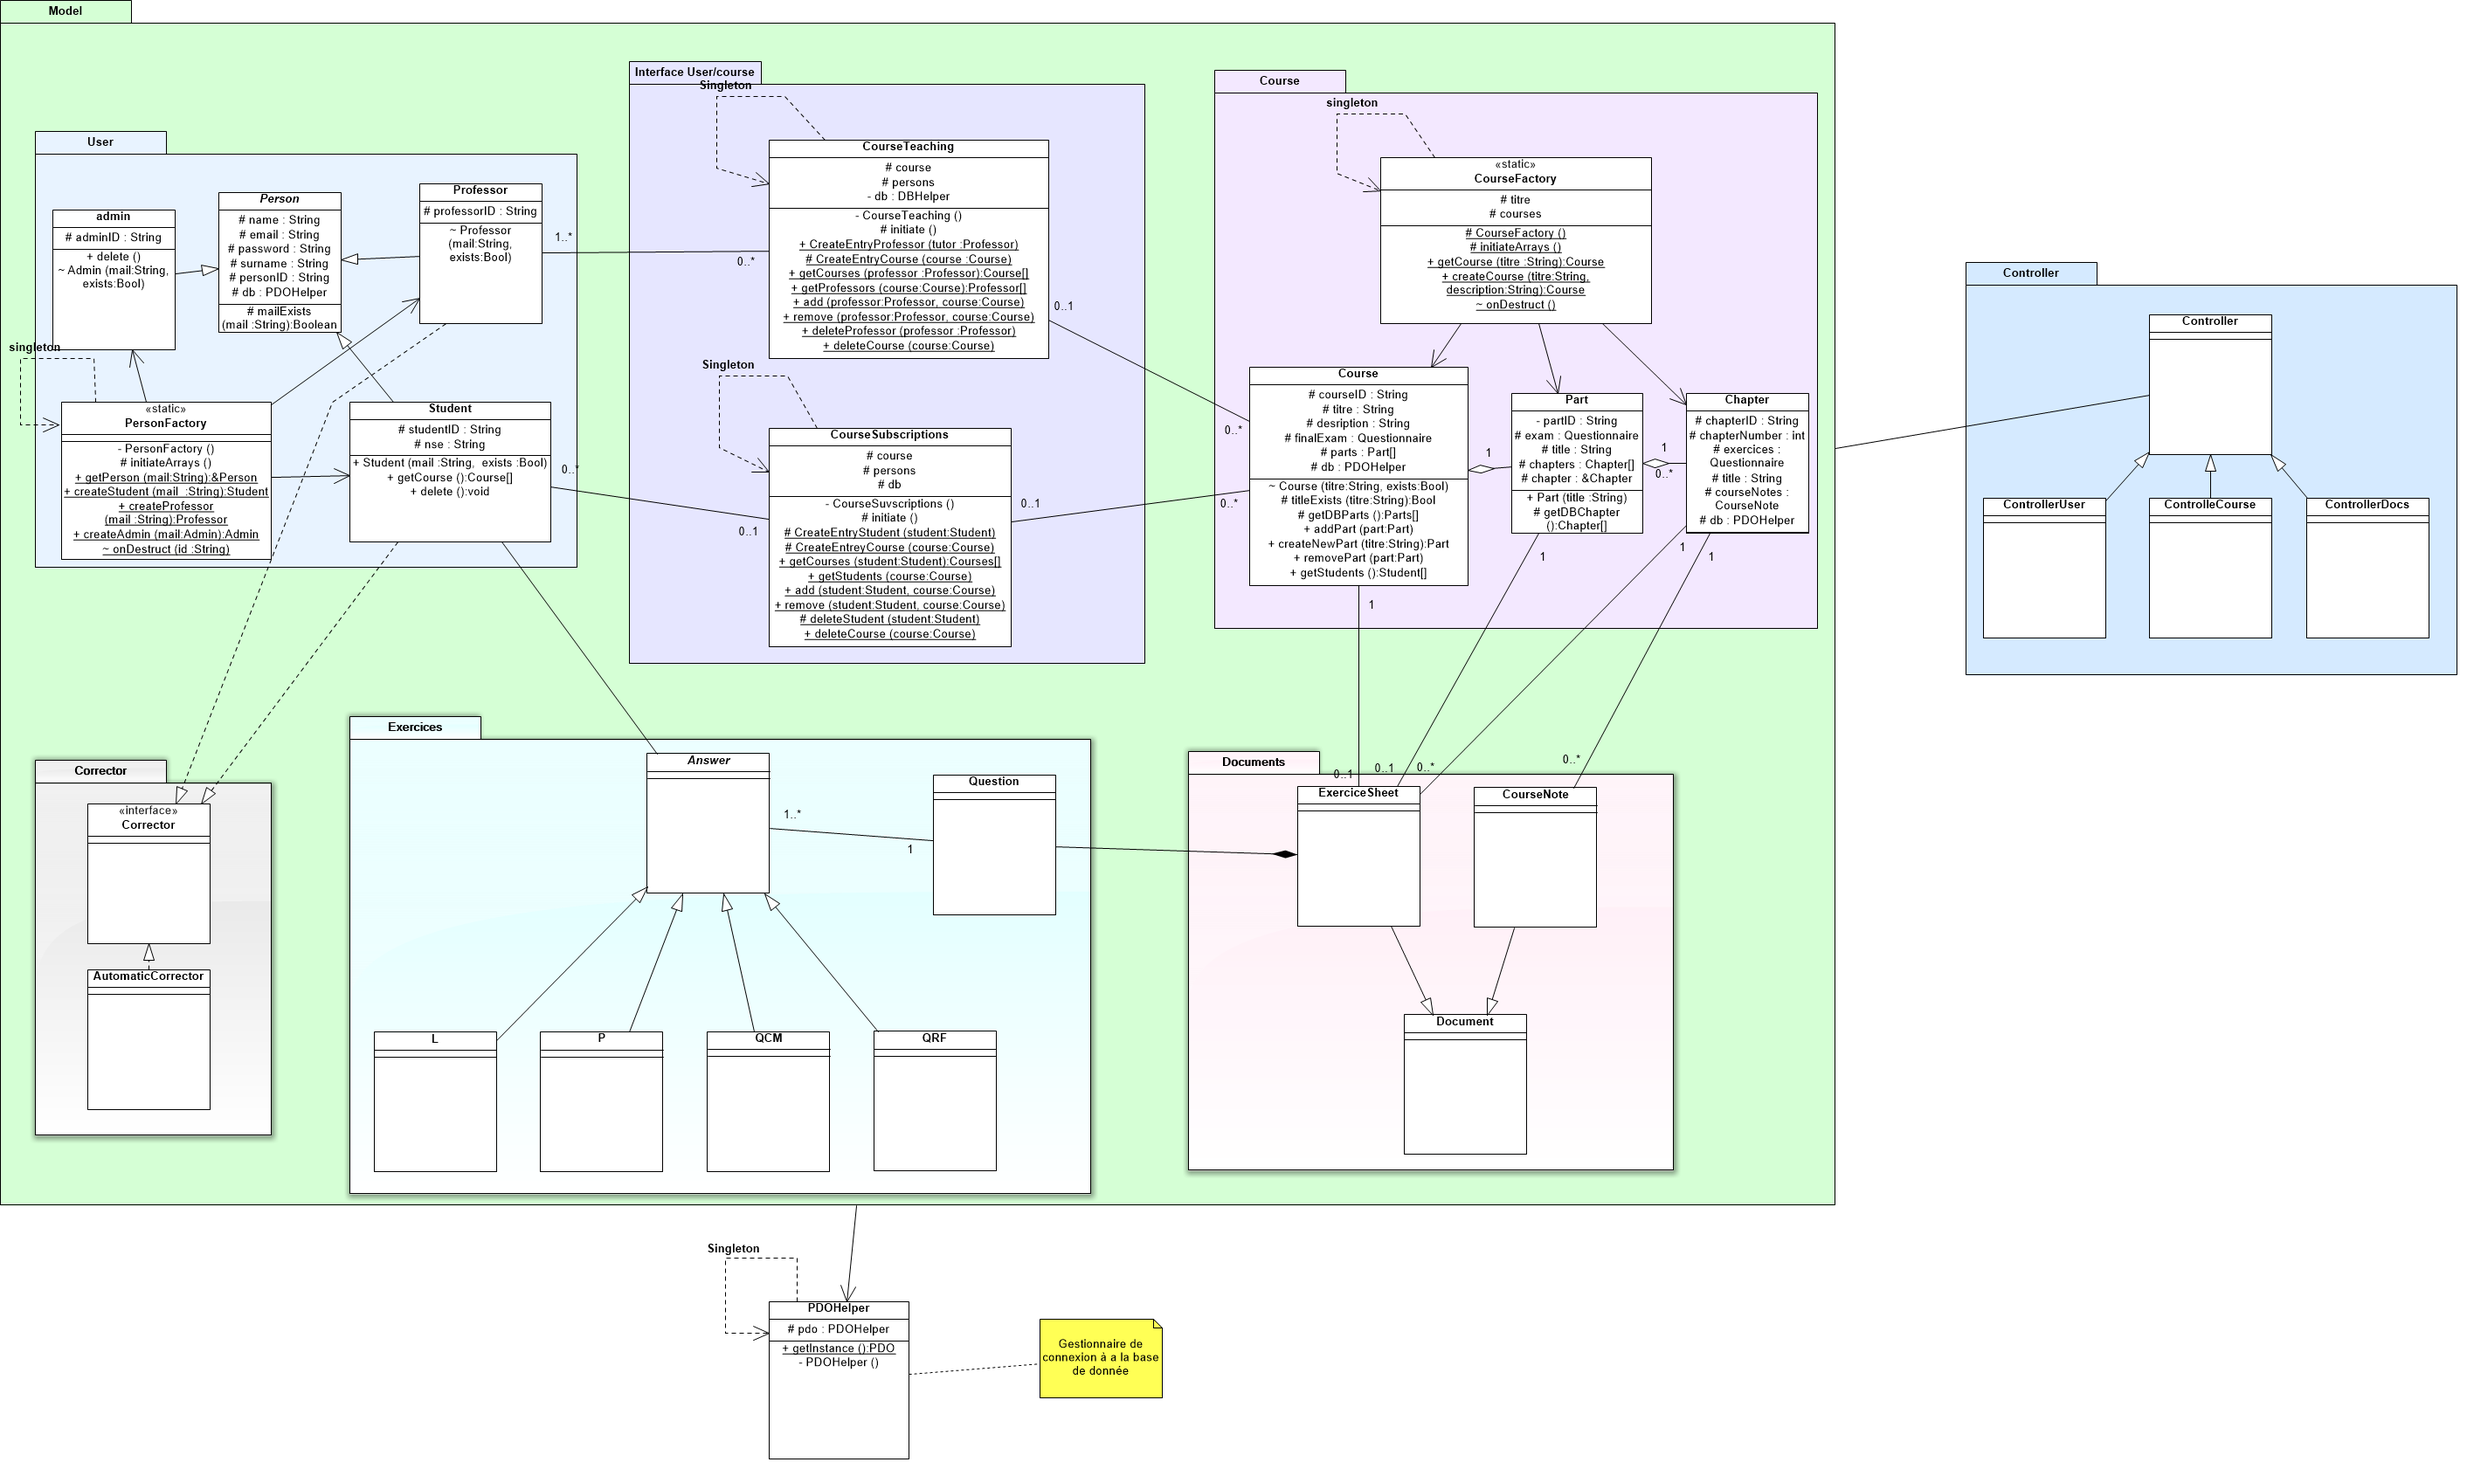
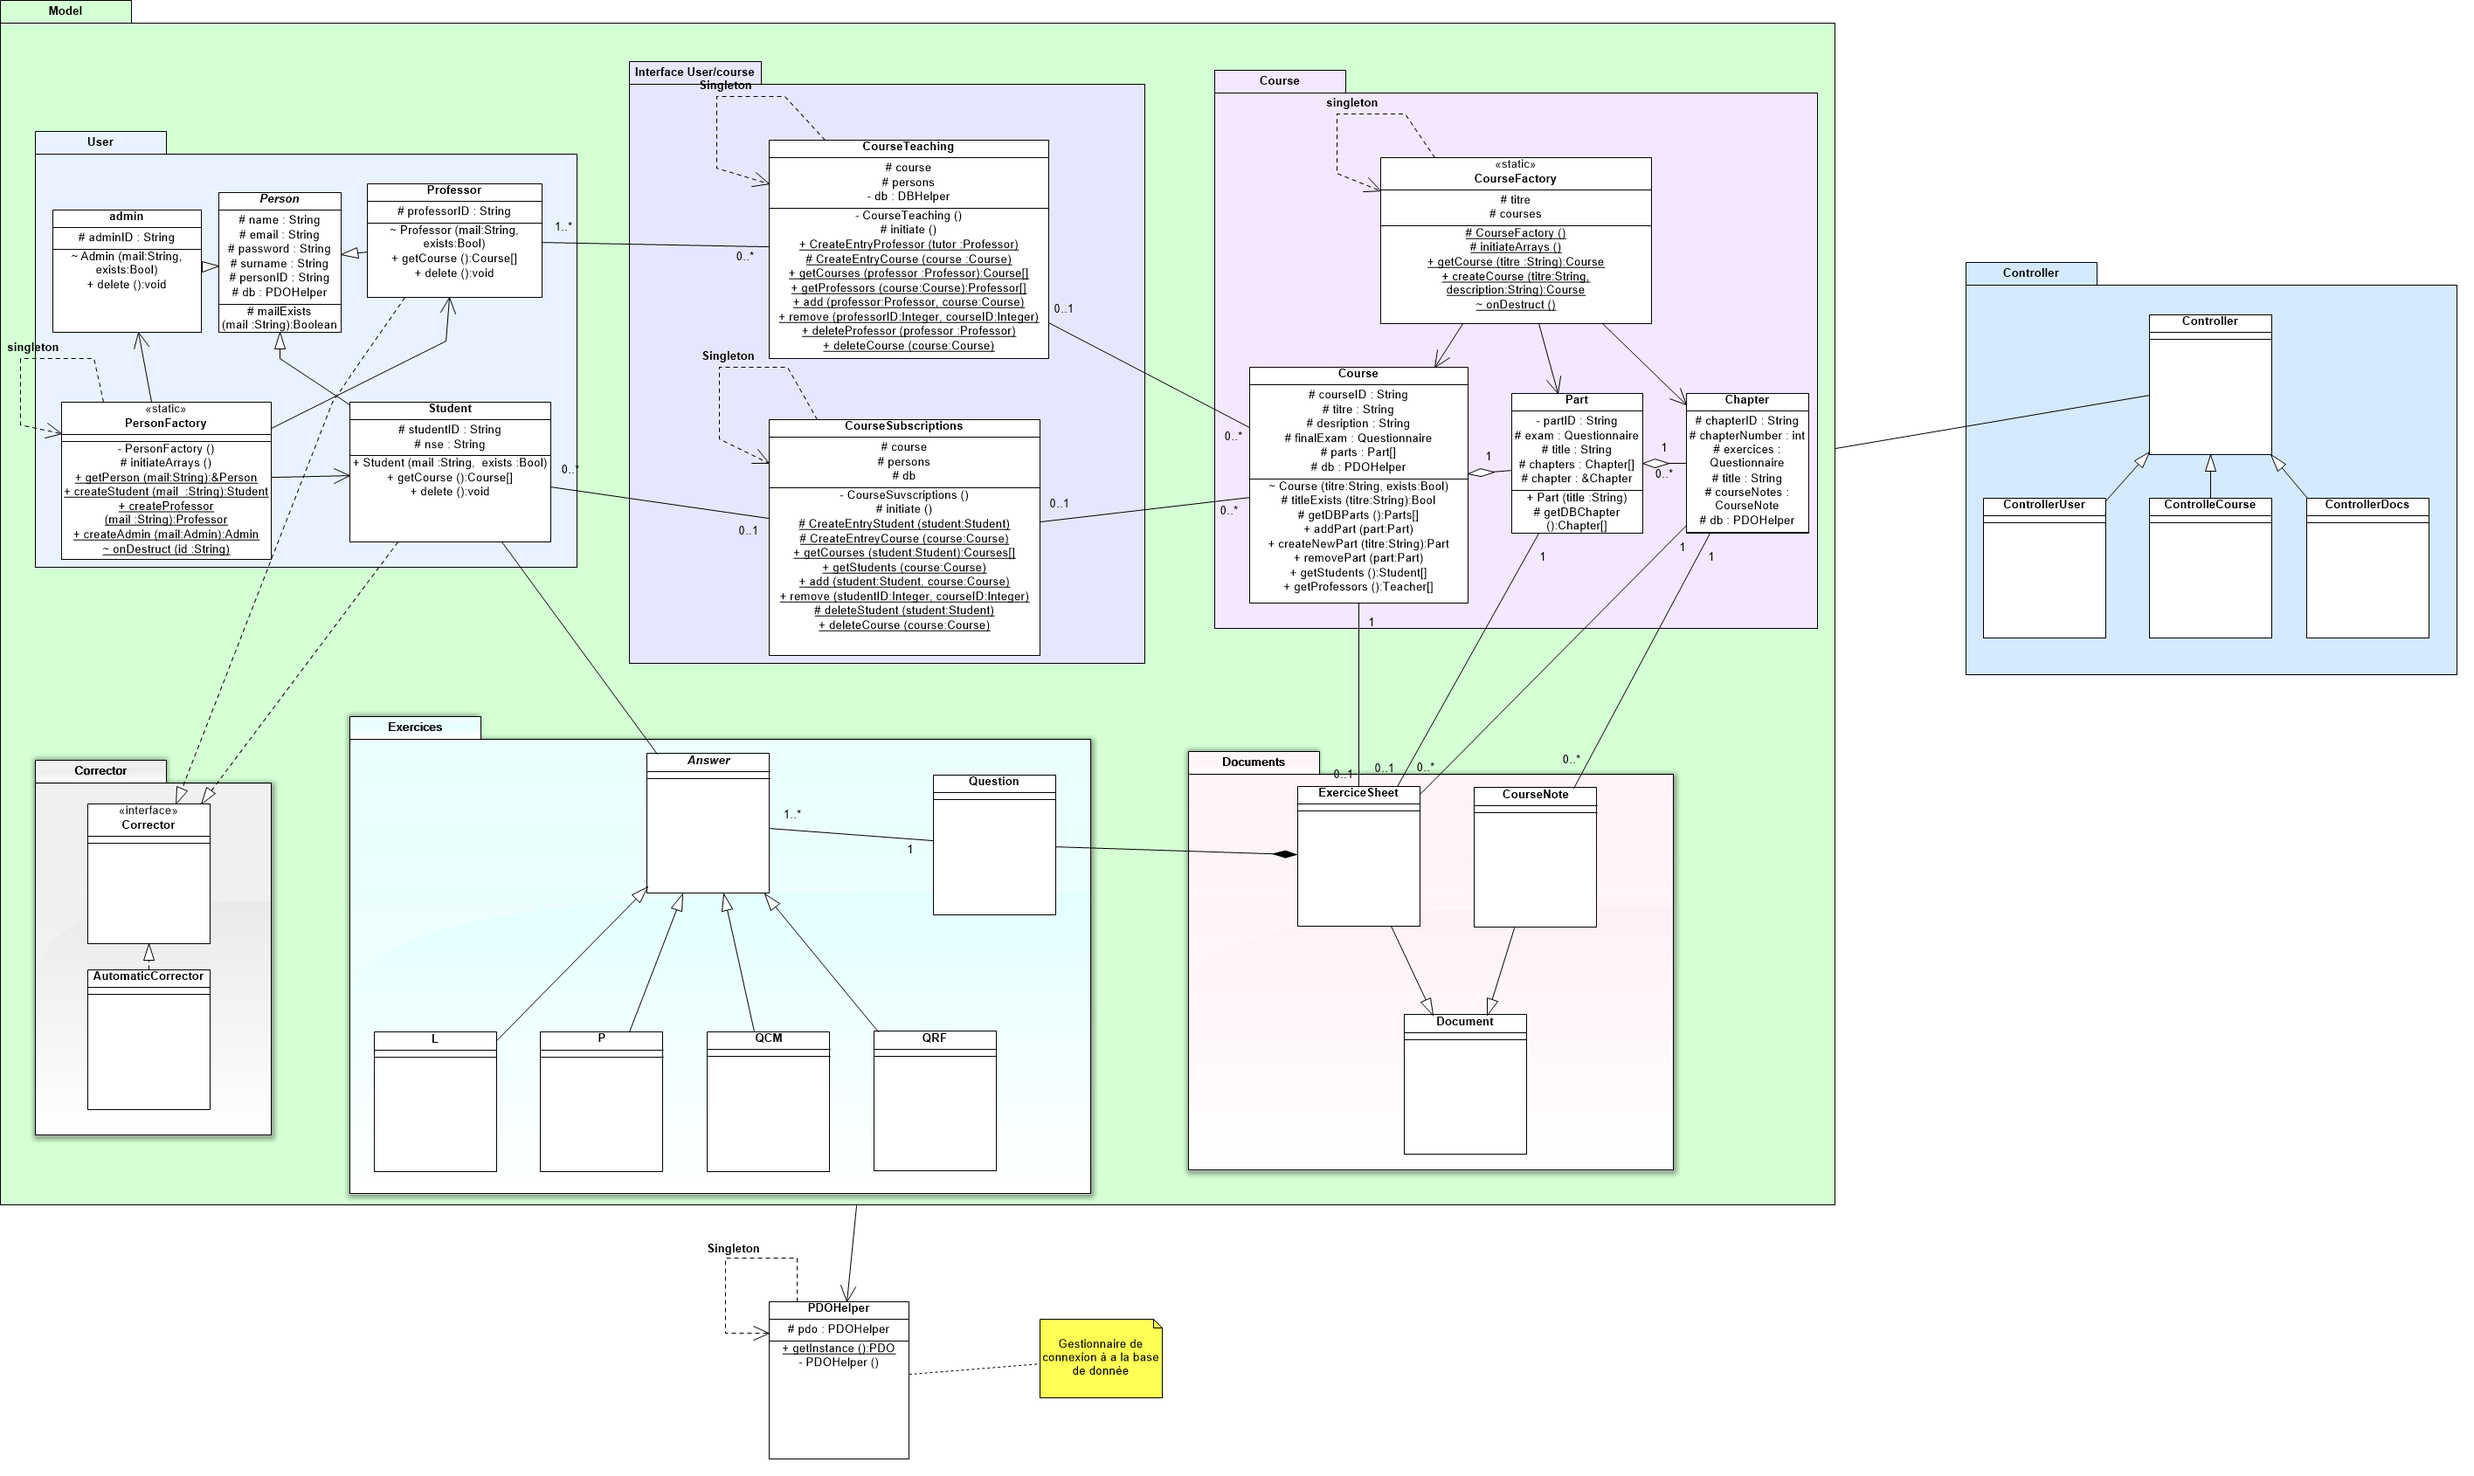
module interface person/course utilisation des ID dans les fonctions remove

diff --git a/src/application/models/Course.php b/src/application/models/Course.php
@@ -155,6 +155,10 @@ class Course {
             return CourseSubstcription::getStudents($this);
         }
         
+        public function getProfessors(){
+            return CourseSubstcription::getProfessors($this);
+        }
+        
         
         
         //Suppression du cours en BDD
